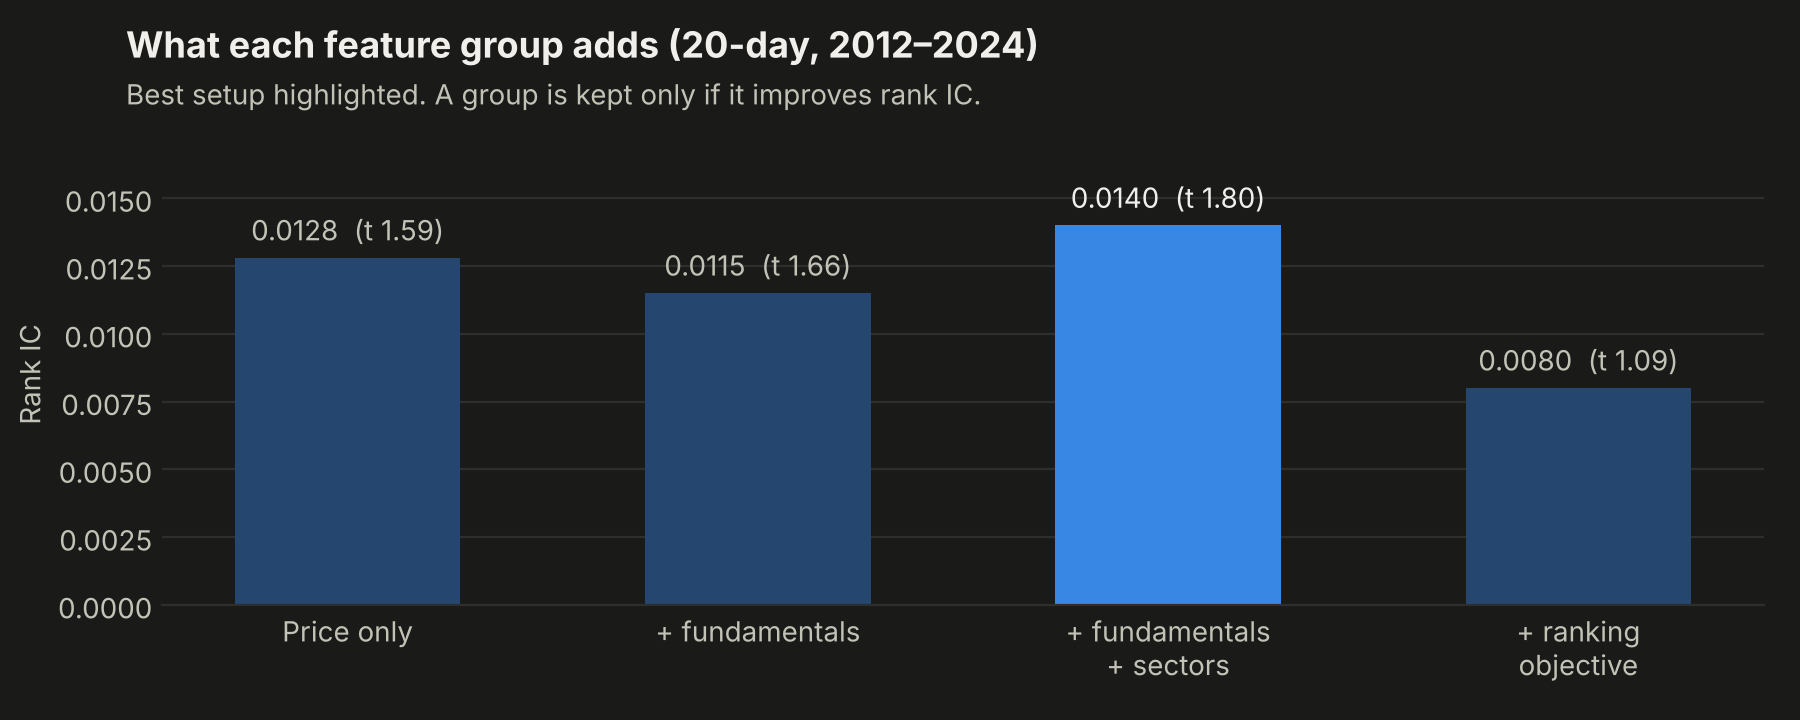
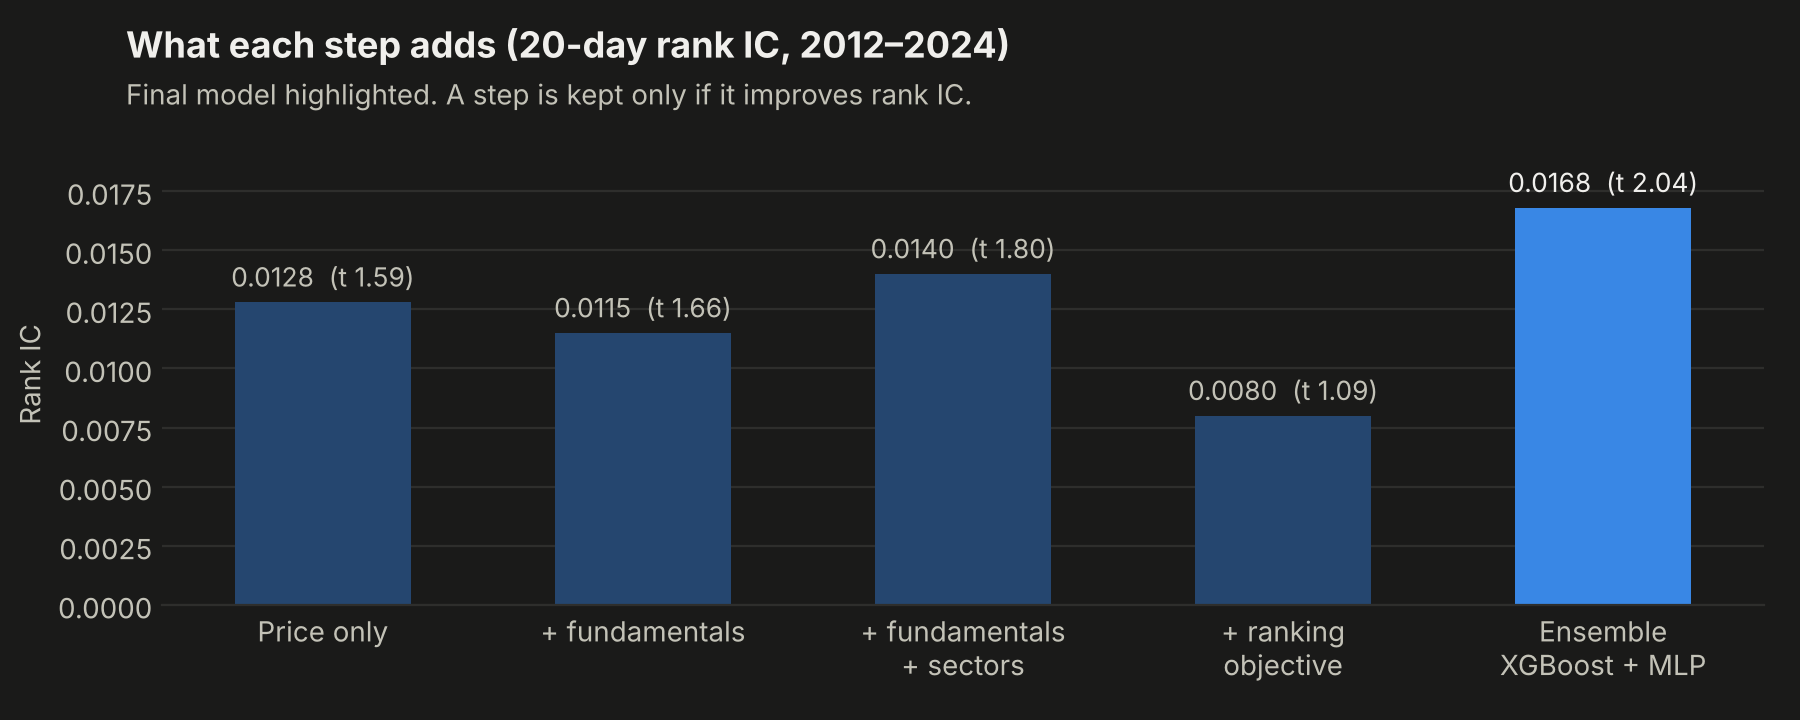
Final ensemble: XGBoost + MLP (IC 0.0168, t 2.04)

diff --git a/scripts/run_experiment.py b/scripts/run_experiment.py
@@ -112,7 +112,7 @@ def build_panel(prices: pd.DataFrame, s: dict, source: str, use_macro: bool,
     return panel.reset_index(drop=True), feature_cols
 
 
-ENSEMBLE_MEMBERS = ("xgboost", "lightgbm", "mlp")
+ENSEMBLE_MEMBERS = ("xgboost", "mlp")   # one tree model + one neural net: least correlated pair (see docs/decisions.md)
 TRAINED = ("xgboost", "lightgbm", "mlp", "ridge")
 
 

diff --git a/docs/decisions.md b/docs/decisions.md
@@ -6,8 +6,8 @@ What we tried, what it scored, and whether it is **in**, **out** or **pending** 
 
 ## Current final model (FYP-1 candidate)
 
-> **XGBoost** on **price + fundamentals + sector** features, cross-sectional ranks, winsorised target, prediction shrinkage.
-> 20-day rank IC **0.0140** (t 1.80), positive in **11 / 13** years. Price brackets: **quantile XGBoost + conformal calibration** (80% range covers 80.1%).
+> **Ensemble of XGBoost + neural net (MLP)**, equal-weight rank average, on **price + fundamentals + sector** features, cross-sectional ranks, winsorised target, prediction shrinkage.
+> 20-day rank IC **0.0168** (t **2.04**, first result past the significance bar), positive in **11 / 13** years, equally strong in 2012–17 and 2018–24. Price brackets: **quantile XGBoost + conformal calibration** (80% range covers 80.1%).
 
 ```mermaid
 flowchart LR
@@ -17,7 +17,7 @@ flowchart LR
     C -->|ranking objective: 0.0080 ✗| X2[rank objective OUT]
     C -->|+ Kronos: 0.0147, noise ✗| X3[Kronos OUT]
     C -->|+ TimesFM: 0.0128 ✗| X4[TimesFM OUT]
-    C -->|ensemble XGB+LGBM+MLP| P1[pending]
+    C -->|ensemble XGBoost + MLP| E[0.0168 ✓ final]
     C -->|+ news| P2[deferred to FYP-2]
 ```
 
@@ -34,10 +34,11 @@ flowchart LR
 | TimesFM 2.5, zero-shot, alone | **OUT** | IC −0.0017, t −0.27, 7/13 years | No skill at ranking stocks: forecasts stay close to "no change" (spread between stocks 1.6%) |
 | XGBoost + TimesFM forecasts as features | **OUT** | IC 0.0128 (t 1.55) vs 0.0140 | Makes the model worse (9/13 positive years vs 11/13): extra noisy inputs |
 | ARIMA (per stock) | **PENDING** | — | Classical baseline for the report |
-| LightGBM | **PENDING** | — | Second tree model with different errors; ensemble member |
-| Small neural net (MLP, PyTorch) | **PENDING** | — | Learns smooth feature combinations trees miss; ensemble member |
-| Ridge (linear) | **PENDING** | — | Simple, stable reference |
-| **Ensemble** (XGBoost + LightGBM + MLP, equal-weight rank average) | **PENDING** | — | How quant firms combine models: different models make different mistakes, averaging cancels part of the noise. Equal weights fixed in advance, so no overfitting to test years |
+| LightGBM | **OUT** | IC 0.0080, t 1.00 | Its rankings are 86% the same as XGBoost's, so it adds a second vote for trees, not new information; it pulled the ensemble down to 0.0143 |
+| Small neural net (MLP, PyTorch) | **IN** (ensemble member) | IC 0.0149, t 1.96, 10/13 years | Best single model; only 43% correlated with XGBoost, strong in 2012–17 where XGBoost was weak |
+| Ridge (linear) | **OUT** | IC 0.0042, t 0.41 | Too simple; lowers any ensemble it joins |
+| **Ensemble: XGBoost + MLP** (equal-weight rank average) | **IN — final model** | **IC 0.0168, t 2.04, 11/13 years** | +20% over XGBoost alone, and stable: 0.0171 in 2012–17, 0.0163 in 2018–24 (XGBoost alone: 0.0057 / 0.0209). Members chosen by how *different* their predictions are (correlation, no test outcomes used); equal weights fixed in advance |
+| Ensemble: XGBoost + LightGBM + MLP | OUT | IC 0.0143 | Two near-identical tree models outvote the neural net |
 | Regime models | **FYP-2** | — | After the ensemble |
 | Kronos fine-tuned on US stocks | **FYP-2** | — | Pretrained route, ~3 days and uncertain; zero-shot versions did not help |
 
@@ -78,6 +79,15 @@ Two large pretrained forecasting models were tested zero-shot on the same stocks
 | TimesFM 2.5 (general time series) | −0.0017 | −0.27 | no skill |
 
 Each pretrained model sees **one stock's price history at a time**. Our model compares **all stocks on the same day** and adds company fundamentals and sector context. For "which stock will beat the market", the cross-sectional, finance-specific model wins. This matches the finance literature: a single price series alone carries little predictable signal. Pretrained models remain an FYP-2 option (fine-tuning on US stocks, ensembles).
+
+## Product decisions
+
+| Decision | Why |
+|---|---|
+| Chat app (FYP-2): user sends a ticker or a chart screenshot (e.g. TradingView), an LLM reads it and answers using **our model's** forecast | The LLM is only the interface (reads the image, explains in plain words). The forecast comes from our tested model, not from the LLM guessing from a picture |
+| The screenshot is used to identify the stock and timeframe, not as the prediction input | A chart image holds less information than the price data we already have; image "pattern reading" is not reliable or testable |
+| Every answer shows rank, P(up), price range, top drivers and the model's backtest record, plus "not investment advice" | Honest, explainable output builds trust; US rules on investment advice |
+| Accuracy claims are only from walk-forward backtests and the locked holdout | Claims of 70–90% stock "accuracy" almost always come from look-ahead bias |
 
 ## Data decisions
 

diff --git a/docs/results.md b/docs/results.md
@@ -44,7 +44,23 @@ Rank IC by year for the best setup: 2012 0.014 · 2013 0.006 · 2014 0.006 · 20
 - TimesFM has no ranking skill: its forecasts barely differ between stocks (spread 1.6%), close to a random walk.
 - Adding it to XGBoost makes the model slightly worse. **Decision: OUT.** See [`decisions.md`](decisions.md#key-finding-pretrained-models-vs-our-model).
 
-## 3. Other horizons (fundamentals + sectors)
+## 3. Ensemble (20-day, fundamentals + sectors)
+
+Run `20261112_1227_real_stock_h20_fund_sect`; combinations in `ensemble_combinations.csv` (same predictions, re-combined).
+
+| Model / combination | Rank IC | IC t-stat | Hit rate | Positive years | IC 2012–17 | IC 2018–24 |
+|---|---|---|---|---|---|---|
+| XGBoost | 0.0140 | 1.80 | 50.7% | 11 | 0.0057 | 0.0209 |
+| LightGBM | 0.0080 | 1.00 | 50.5% | 9 | 0.0001 | 0.0147 |
+| MLP (neural net) | 0.0149 | 1.96 | 50.4% | 10 | 0.0240 | 0.0070 |
+| Ridge | 0.0042 | 0.41 | 50.1% | 7 | 0.0017 | 0.0065 |
+| **XGBoost + MLP** | **0.0168** | **2.04** | 50.5% | **11** | **0.0171** | **0.0163** |
+| XGBoost + LightGBM + MLP | 0.0143 | 1.71 | 50.6% | 10 | 0.0116 | 0.0165 |
+| All four | 0.0130 | 1.40 | 50.5% | 10 | 0.0103 | 0.0153 |
+
+Correlation of the models' stock rankings: XGBoost–LightGBM 0.86, XGBoost–MLP 0.43, MLP–Ridge 0.55. Combining models that disagree (tree + neural net) is what helps. **Final model: XGBoost + MLP.**
+
+## 4. Other horizons (fundamentals + sectors)
 
 | Horizon | Hit rate | Rank IC | IC t-stat |
 |---|---|---|---|
@@ -52,7 +68,7 @@ Rank IC by year for the best setup: 2012 0.014 · 2013 0.006 · 2014 0.006 · 20
 | 20 days | 50.7% | 0.0140 | 1.80 |
 | 60 days | 50.9% | 0.0156 | 1.31 |
 
-## 4. Price brackets (20-day)
+## 5. Price brackets (20-day)
 
 | Metric | Model | Naive normal |
 |---|---|---|
@@ -64,17 +80,17 @@ Rank IC by year for the best setup: 2012 0.014 · 2013 0.006 · 2014 0.006 · 20
 
 Raw P(up) hit 54.7% vs a 57.7% "always up" base rate, so isotonic calibration was added (re-run pending).
 
-## 5. Single-feature ICs (2010–2024)
+## 6. Single-feature ICs (2010–2024)
 
 All single features have |IC| ≤ 0.022. Strongest: book-to-market (−0.022), short-term reversal (`ret_5`, `ret_20` negative), free-cash-flow yield (+0.013), sector-relative momentum (+0.013), sector-relative earnings surprise (+0.011), accruals (−0.011). File: [`../results/factor_ic_2010_2024.csv`](../results/factor_ic_2010_2024.csv).
 
-## 6. Pending
+## 7. Pending
 
 - ARIMA baseline
 - Brackets with calibrated P(up) for 5 / 60 days
 
 ## Limitations
 
-- Skill is small and not yet significant at the 5% level (t ≈ 1.8). This is normal for honest stock forecasting; large claimed accuracies usually come from look-ahead bias.
+- Skill is small: the final ensemble just passes the 5% significance bar (t 2.04). This is normal for honest stock forecasting; large claimed accuracies usually come from look-ahead bias.
 - Survivorship bias and the A–PCAR universe (see [`data-sources.md`](data-sources.md)).
 - Transaction costs are not modelled yet.

diff --git a/docs/PROGRESS.md b/docs/PROGRESS.md
@@ -150,6 +150,12 @@ Targets to beat: rank IC 0.03–0.08 with t > 2, hit rate 52–56%, DM p < 0.05 
 
 ## Work log (newest first)
 
+### 12 Nov 2026 (ensemble results)
+- Real-data run: XGBoost 0.0140 (t 1.80) · LightGBM 0.0080 · **MLP 0.0149 (t 1.96)** · Ridge 0.0042 · 3-model ensemble 0.0143.
+- Re-combined the saved predictions: **XGBoost + MLP = IC 0.0168, t 2.04, 11/13 years**, stable across 2012–17 (0.0171) and 2018–24 (0.0163). LightGBM ranks 86% like XGBoost (redundant); MLP only 43% → real diversification.
+- **Decision:** final model = XGBoost + MLP rank-average ensemble (`ENSEMBLE_MEMBERS` updated). LightGBM, Ridge OUT. First result past t = 2.
+- Next: sector-neutral target, full universe (Tiingo upgrade, waiting on Naveed), SEC insider/8-K features.
+
 ### 12 Nov 2026 (ensemble)
 - Decision (with Naveed): push accuracy with an **ensemble** now; Kronos fine-tuning + live news in FYP-2.
 - New `src/models/ensemble.py`: LightGBM, Ridge, MLP (PyTorch, GPU) + `ensemble_rank` (equal-weight average of per-date ranks). Every member gets the same shrinkage step as XGBoost.

diff --git a/README.md b/README.md
@@ -124,8 +124,9 @@ Walk-forward backtest: 466 S&P 500 stocks, test years 2012–2024, scored weekly
 | Random Walk (baseline) | 50.0% | 0 | — |
 | XGBoost, price features | 50.4% | 0.0128 | 1.59 |
 | + fundamentals | 50.7% | 0.0115 | 1.66 |
-| **+ fundamentals + sectors (best)** | **50.7%** | **0.0140** | **1.80** |
+| + fundamentals + sectors | 50.7% | 0.0140 | 1.80 |
 | + ranking objective | 50.3% | 0.0080 | 1.09 |
+| **Ensemble: XGBoost + neural net (final)** | **50.5%** | **0.0168** | **2.04** |
 
 <picture>
   <source media="(prefers-color-scheme: dark)" srcset="docs/assets/rank_ic_by_year_dark.png">
